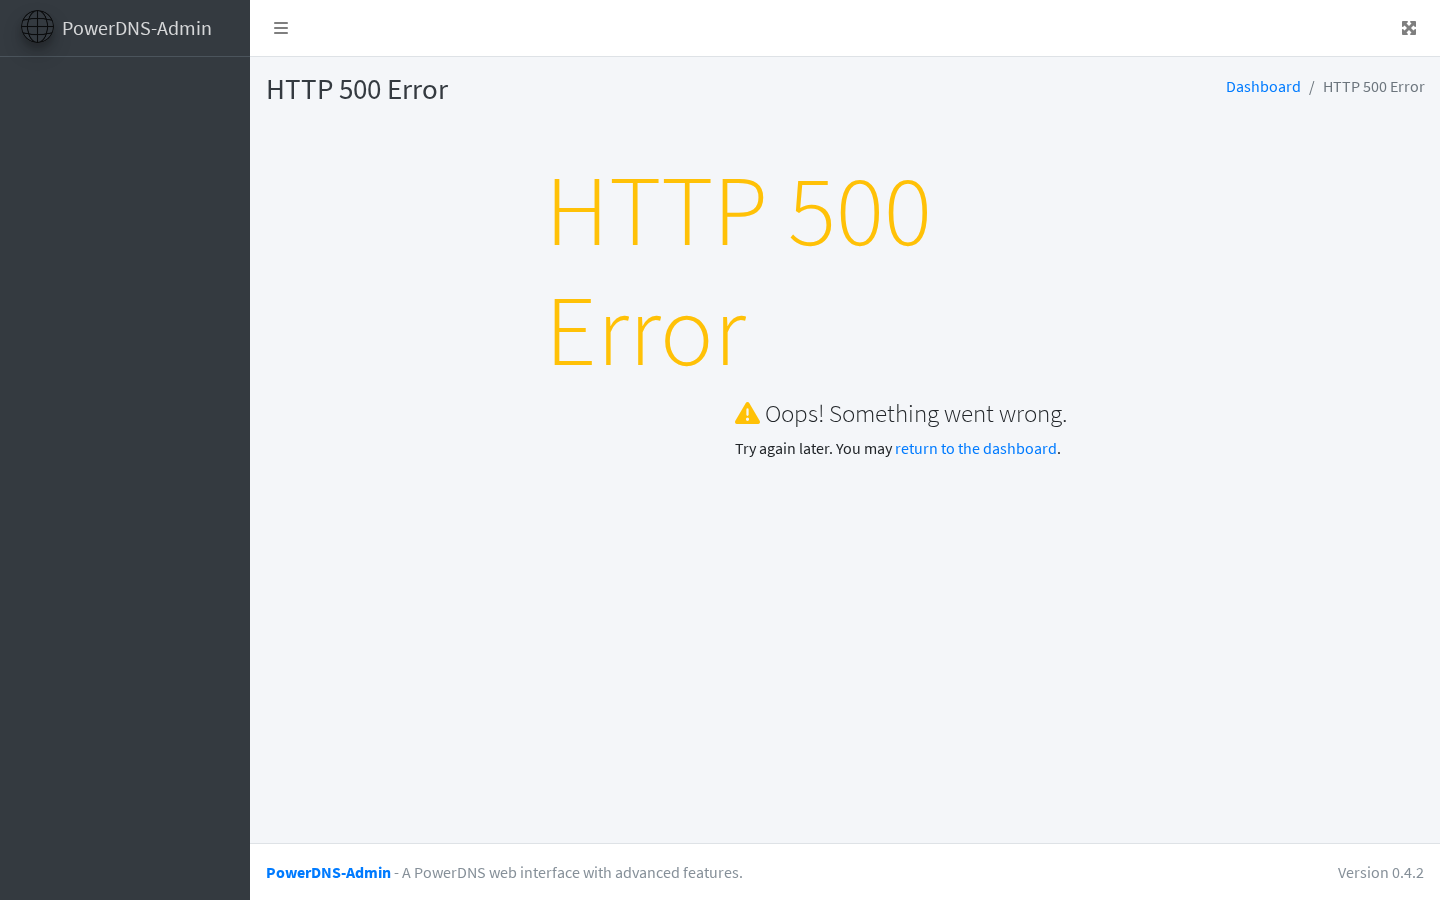
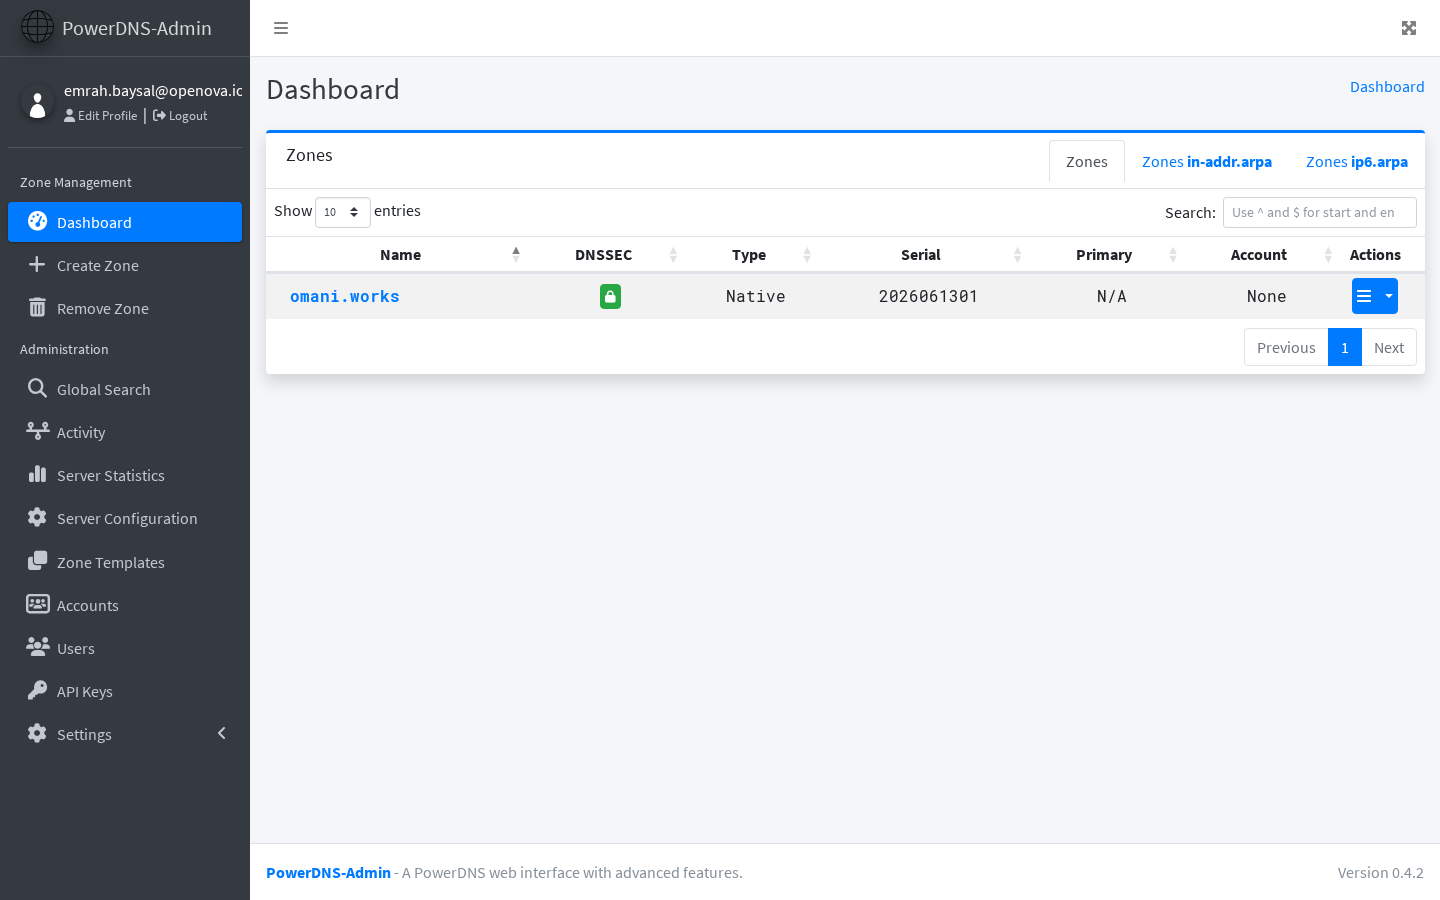
docs(uat): #3374 SSO-A re-walk hw133 — pdns-admin recovered ✅; openbao + openova-flow still ❌
Re-walked the 4 SSO-A rows on live hw133 (catalyst-api d38da8b, bp-openbao
1.2.34, bp-powerdns-admin 0.1.13) with an own headless Playwright after a
sovereign-admin handover.

- pdns-admin: RECOVERED — zero-click signed-in /dashboard/ as
  emrah.baysal@openova.io with full admin sidebar (new r11.png).
- openbao bao/ui/: STILL BROKEN — OIDC callback renders
  'Cannot read properties of null (reading postMessage)' at the doubled
  /ui/vault/oidc/oidc/callback. The #3429/#3431/#3434/#3436 fixes corrected
  the shim 302-chain + group mapping but the browser callback still errors;
  302 wire-proof != lands-signed-in.
- openova-flow: STILL BROKEN — oauth2-proxy v7.6.0 returns HTTP 500 on
  /oauth2/callback.

Result line updated to ✅12/❌10.

Refs #3374

diff --git a/docs/ledger/uat-walkthrough/3374-sso.md b/docs/ledger/uat-walkthrough/3374-sso.md
@@ -12,14 +12,14 @@
 | [gitea · admin](https://gitea.hw133.omani.works/-/admin) | **Site Administration** panel renders. **❌ live:** SSO user `emrah.baysal` is NOT a Gitea site admin → `/-/admin` returns a Gitea **404 / "not authorized"** page | ❌ | [![](../../sessions/2026-06-14/evidence/3374/r6.png)](../../sessions/2026-06-14/evidence/3374/r6.png) |
 | [registry.hw133.omani.works](https://registry.hw133.omani.works/) | Harbor projects view renders signed-in | ✅ | [![](../../sessions/2026-06-14/evidence/3374/r7.png)](../../sessions/2026-06-14/evidence/3374/r7.png) |
 | [harbor · users](https://registry.hw133.omani.works/harbor/users) | **Administration → Users** page renders | ✅ | [![](../../sessions/2026-06-14/evidence/3374/r8.png)](../../sessions/2026-06-14/evidence/3374/r8.png) |
-| [bao.hw133.omani.works/ui/](https://bao.hw133.omani.works/ui/) | ❌ **BROKEN (hw133)** — should be the signed-in Vault UI; live = OIDC callback lands on **error page** `Cannot read properties of null (reading 'postMessage')` | ❌ | [![](../../sessions/2026-06-14/evidence/3374/r9.png)](../../sessions/2026-06-14/evidence/3374/r9.png) |
-| [bao · access](https://bao.hw133.omani.works/ui/vault/access) | Access/policies controls (blocked by the above). **❌ live:** bounced to **"Sign in to OpenBao"** OIDC auth form | ❌ | [![](../../sessions/2026-06-14/evidence/3374/r10.png)](../../sessions/2026-06-14/evidence/3374/r10.png) |
-| [pdns-admin.hw133.omani.works](https://pdns-admin.hw133.omani.works/) | ❌ **BROKEN (hw133)** — should be the dashboard signed-in; live = **HTTP 500** error page (on `/oidc/login`) | ❌ | [![](../../sessions/2026-06-14/evidence/3374/r11.png)](../../sessions/2026-06-14/evidence/3374/r11.png) |
+| [bao.hw133.omani.works/ui/](https://bao.hw133.omani.works/ui/) | ❌ **STILL BROKEN after #3429/#3431/#3434/#3436 (re-walked 2026-06-14, catalyst-api `d38da8b`, bp-openbao 1.2.34)** — the shim/302 chain now fires (`bao/`→shim→Keycloak→callback) and sso-configure maps groups 0-WARN, but the browser OIDC **callback still renders the error page** `Cannot read properties of null (reading 'postMessage')` at `/ui/vault/auth/oidc/oidc/callback` (note the doubled `/oidc/oidc/`). Wire-proof 302 ≠ lands-signed-in; never reaches the Vault UI | ❌ | [![](../../sessions/2026-06-14/evidence/3374/r9.png)](../../sessions/2026-06-14/evidence/3374/r9.png) |
+| [bao · access](https://bao.hw133.omani.works/ui/vault/access) | Access/policies controls (blocked by the above). **❌ re-walked 2026-06-14:** bounced to **"Sign in to OpenBao"** OIDC auth form (`/ui/vault/auth?redirect_to=/vault/access&with=oidc/`) — still no session | ❌ | [![](../../sessions/2026-06-14/evidence/3374/r10.png)](../../sessions/2026-06-14/evidence/3374/r10.png) |
+| [pdns-admin.hw133.omani.works](https://pdns-admin.hw133.omani.works/) | ✅ **RECOVERED (re-walked 2026-06-14, bp-powerdns-admin 0.1.13)** — zero-click lands on `/dashboard/` signed-in as **emrah.baysal@openova.io** with the full admin sidebar (Accounts, Users, API Keys, Settings) and the `omani.works` zone listed; no `/oidc/login` 500 | ✅ | [![](../../sessions/2026-06-14/evidence/3374/r11.png)](../../sessions/2026-06-14/evidence/3374/r11.png) |
 | [guacamole.hw133.omani.works](https://guacamole.hw133.omani.works/) | Connections home renders signed-in (not a Tomcat 404) | ✅ | [![](../../sessions/2026-06-14/evidence/3374/r12.png)](../../sessions/2026-06-14/evidence/3374/r12.png) |
 | [guacamole.hw133.omani.works](https://guacamole.hw133.omani.works/) | ❌ **GAP** — no admin rights implemented (no permission store); lands signed-in but no Settings/admin menu | ❌ | [![](../../sessions/2026-06-14/evidence/3374/r13.png)](../../sessions/2026-06-14/evidence/3374/r13.png) |
 | [newapi.hw133.omani.works](https://newapi.hw133.omani.works/) | Admin UI renders signed-in via SSO (not NewAPI's own login). **❌ live:** NewAPI shows its own **"System initialization"** wizard + **Sign in / Sign up** buttons — no SSO session | ❌ | [![](../../sessions/2026-06-14/evidence/3374/r14.png)](../../sessions/2026-06-14/evidence/3374/r14.png) |
 | [newapi.hw133.omani.works](https://newapi.hw133.omani.works/) | ❌ **GAP** — no admin-group mapping configured (app uninitialized, not SSO-wired) | ❌ | [![](../../sessions/2026-06-14/evidence/3374/r15.png)](../../sessions/2026-06-14/evidence/3374/r15.png) |
-| [openova-flow.hw133.omani.works](https://openova-flow.hw133.omani.works/) | Flow UI renders signed-in (no login button). **❌ live:** OAuth2-Proxy callback returns **500 Internal Server Error** (oauth2-proxy v7.6.0) | ❌ | [![](../../sessions/2026-06-14/evidence/3374/r16.png)](../../sessions/2026-06-14/evidence/3374/r16.png) |
+| [openova-flow.hw133.omani.works](https://openova-flow.hw133.omani.works/) | Flow UI renders signed-in (no login button). **❌ STILL BROKEN (re-walked 2026-06-14):** OAuth2-Proxy callback `/oauth2/callback` returns **HTTP 500 Internal Server Error** (oauth2-proxy v7.6.0) — the redirect to Keycloak fires but the callback errors before the upstream Flow UI renders | ❌ | [![](../../sessions/2026-06-14/evidence/3374/r16.png)](../../sessions/2026-06-14/evidence/3374/r16.png) |
 | [hubble.hw133.omani.works](https://hubble.hw133.omani.works/) | Flow map renders **only after** a silent sign-in (must not serve to anonymous). **❌ live:** **HTTP 503 "no healthy upstream"** — Hubble UI backend down | ❌ | [![](../../sessions/2026-06-14/evidence/3374/r17.png)](../../sessions/2026-06-14/evidence/3374/r17.png) |
 | [hubble.hw133.omani.works](https://hubble.hw133.omani.works/) | ❌ **GAP** — no admin panel (read-only); on a bad overlay can fall back to no-auth. **Live: 503 upstream down** | ❌ | [![](../../sessions/2026-06-14/evidence/3374/r18.png)](../../sessions/2026-06-14/evidence/3374/r18.png) |
 | [auth.hw133.omani.works](https://auth.hw133.omani.works/) | Lands on the **sovereign-realm** admin console (not the master local form) | ✅ | [![](../../sessions/2026-06-14/evidence/3374/r19.png)](../../sessions/2026-06-14/evidence/3374/r19.png) |
@@ -27,6 +27,6 @@
 | [marketplace.hw133.omani.works](https://marketplace.hw133.omani.works/) | Anonymous storefront renders; no spurious login form before checkout | ✅ | [![](../../sessions/2026-06-14/evidence/3374/r21.png)](../../sessions/2026-06-14/evidence/3374/r21.png) |
 | _(per-org console)_ | ❌ **UNBUILT** — `console.<orgslug>.omani.homes` should land the org owner signed-in; per-org realm not yet built (gated on funnel). Not walkable (no URL) | ❌ | — |
 
-**Result:** ✅ 11 / ❌ 11 (walked 2026-06-14 on live hw133, single shared SSO browser session after handover). **Headline:** core SSO zero-click lands signed-in on console, grafana (+admin), gitea, harbor (+admin), guacamole, keycloak-sovereign-realm, and the marketplace storefront renders anonymous — all clean. **Failures, by class:** (1) genuinely broken SSO wiring — openbao (`postMessage` null on OIDC callback → bounce to Sign-in form), pdns-admin (HTTP 500 on `/oidc/login`), **openova-flow (oauth2-proxy 500 on callback — this one was *expected to pass* per the row but is broken live)**; (2) app-down — hubble UI = HTTP 503 "no healthy upstream"; (3) not-SSO-wired — newapi shows its own System-initialization wizard + Sign in/Sign up (no SSO session at all); (4) admin-gap-as-designed — gitea `/-/admin` 404 (SSO user not site-admin), guacamole/newapi/hubble have no admin store; (5) per-org console unbuilt (no URL to walk).
+**Result:** ✅ 12 / ❌ 10 (SSO-A rows re-walked 2026-06-14 on live hw133 with own headless Playwright after handover; catalyst-api `d38da8b`, bp-openbao 1.2.34, bp-powerdns-admin 0.1.13). **SSO-A (#3374) outcome:** only **pdns-admin RECOVERED** (was HTTP 500 → now zero-click signed-in admin dashboard). **openbao is STILL ❌** — the #3429/#3431/#3434/#3436 fixes corrected the shim/302-chain + group-mapping (0-WARN tick) but the browser OIDC callback **still errors** `Cannot read properties of null (reading 'postMessage')` at the doubled-path `/ui/vault/oidc/oidc/callback`; the 302-chain wire-proof in the builder report does NOT equal lands-signed-in. **openova-flow is STILL ❌** — oauth2-proxy v7.6.0 returns **HTTP 500 on `/oauth2/callback`** (the builder's "already healthy" claim is contradicted by the live browser walk). **Headline:** core SSO zero-click lands signed-in on console, grafana (+admin), gitea, harbor (+admin), guacamole, keycloak-sovereign-realm, and the marketplace storefront renders anonymous — all clean. **Failures, by class:** (1) genuinely broken SSO wiring — openbao (`postMessage` null on OIDC callback → bounce to Sign-in form), **openova-flow (oauth2-proxy 500 on callback)**; (2) app-down — hubble UI = HTTP 503 "no healthy upstream"; (3) not-SSO-wired — newapi shows its own System-initialization wizard + Sign in/Sign up (no SSO session at all); (4) admin-gap-as-designed — gitea `/-/admin` 404 (SSO user not site-admin), guacamole/newapi/hubble have no admin store; (5) per-org console unbuilt (no URL to walk).
 
-**Evidence:** each passing app needs two screenshots (signed-in landing + admin area). **Live gaps:** OpenBao + PowerDNS-Admin + openova-flow broken; Hubble UI 503 down; NewAPI not SSO-wired; Guacamole/NewAPI/Hubble admin gaps; Gitea SSO user lacks site-admin; per-org realm unbuilt.
+**Evidence:** each passing app needs two screenshots (signed-in landing + admin area). **Live gaps (post SSO-A re-walk 2026-06-14):** OpenBao + openova-flow still broken; PowerDNS-Admin now ✅ (recovered); Hubble UI 503 down; NewAPI not SSO-wired; Guacamole/NewAPI/Hubble admin gaps; Gitea SSO user lacks site-admin; per-org realm unbuilt.
